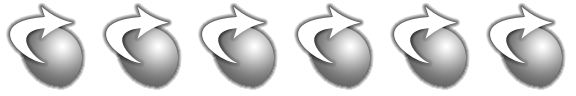
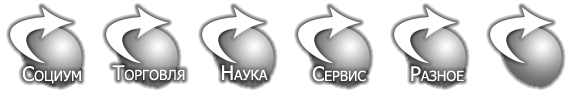
fix graphics

diff --git a/Rania/src/com/game/rania/screen/part/PlanetPanel.java b/Rania/src/com/game/rania/screen/part/PlanetPanel.java
@@ -85,8 +85,8 @@ public class PlanetPanel extends Group implements Part
     mView.loadTexture("data/gui/planet_icons.png", RegionID.PLANET_NPC, 0, 0, 96, 96);
     mView.loadTexture("data/gui/planet_icons.png", RegionID.PLANET_TRADE, 96, 0, 96, 96);
     mView.loadTexture("data/gui/planet_icons.png", RegionID.PLANET_SCIENCE, 192, 0, 96, 96);
-    mView.loadTexture("data/gui/planet_icons.png", RegionID.PLANET_TECHNIC, 288, 0, 96, 96);
-    mView.loadTexture("data/gui/planet_icons.png", RegionID.PLANET_LIFE, 384, 0, 96, 96);
+    mView.loadTexture("data/gui/planet_icons.png", RegionID.PLANET_SERVICE, 288, 0, 96, 96);
+    mView.loadTexture("data/gui/planet_icons.png", RegionID.PLANET_OTHER, 384, 0, 96, 96);
     mView.loadTexture("data/gui/planet_icons.png", RegionID.PLANET_EXIT, 480, 0, 96, 96);
 
     npcButton = new PressedButton(RegionID.PLANET_PANEL,
@@ -198,9 +198,9 @@ public class PlanetPanel extends Group implements Part
     mainGroup.addElement(scienceButton);
     mainGroup.addElement(new Object(RegionID.PLANET_SCIENCE, 0, halfHeight * 0.7f, 0, 2, 2));
     mainGroup.addElement(technicButton);
-    mainGroup.addElement(new Object(RegionID.PLANET_TECHNIC, halfWidth * 0.275f, halfHeight * 0.5f, 0, 2, 2));
+    mainGroup.addElement(new Object(RegionID.PLANET_SERVICE, halfWidth * 0.275f, halfHeight * 0.5f, 0, 2, 2));
     mainGroup.addElement(lifeButton);
-    mainGroup.addElement(new Object(RegionID.PLANET_LIFE, halfWidth * 0.375f, 0, 0, 2, 2));
+    mainGroup.addElement(new Object(RegionID.PLANET_OTHER, halfWidth * 0.375f, 0, 0, 2, 2));
     addElement(mainGroup);
 
     exitGroup.addElement(exitButton);

diff --git a/Rania/src/com/game/rania/net/NetController.java b/Rania/src/com/game/rania/net/NetController.java
@@ -666,7 +666,7 @@ public class NetController
       String PName = cr.getString();
       String SName = cr.getString();
       double UserEnergy = cr.getDbl();
-      Player player = new Player(UserId, UserX, UserY, PName, SName, UserDomain, UserInPlanet);
+      Player player = new Player(UserId, UserX, UserY, SName, PName, UserDomain, UserInPlanet);
       player.energy = UserEnergy;
       player.setEquips(getEquips(cr));
       checkCRC(command, cr);

diff --git a/Rania/src/com/game/rania/model/RegionID.java b/Rania/src/com/game/rania/model/RegionID.java
@@ -34,7 +34,7 @@ public enum RegionID
   LASER_SKILL, ROCKET_SKILL, BFG_SKILL, REPAIR_KIT_SKILL,
 
   // planet
-  PLANET_PANEL, PLANET_NPC, PLANET_TRADE, PLANET_SCIENCE, PLANET_TECHNIC, PLANET_LIFE, PLANET_EXIT,
+  PLANET_PANEL, PLANET_NPC, PLANET_TRADE, PLANET_SCIENCE, PLANET_SERVICE, PLANET_OTHER, PLANET_EXIT,
 
   // emblems
   MORT, MORT_ACT, ARAHNID, ARAHNID_ACT, ERBO, ERBO_ACT, GURDIN, GURDIN_ACT, SIKTAN, SIKTAN_ACT, DEMIURG, DEMIURG_ACT,
